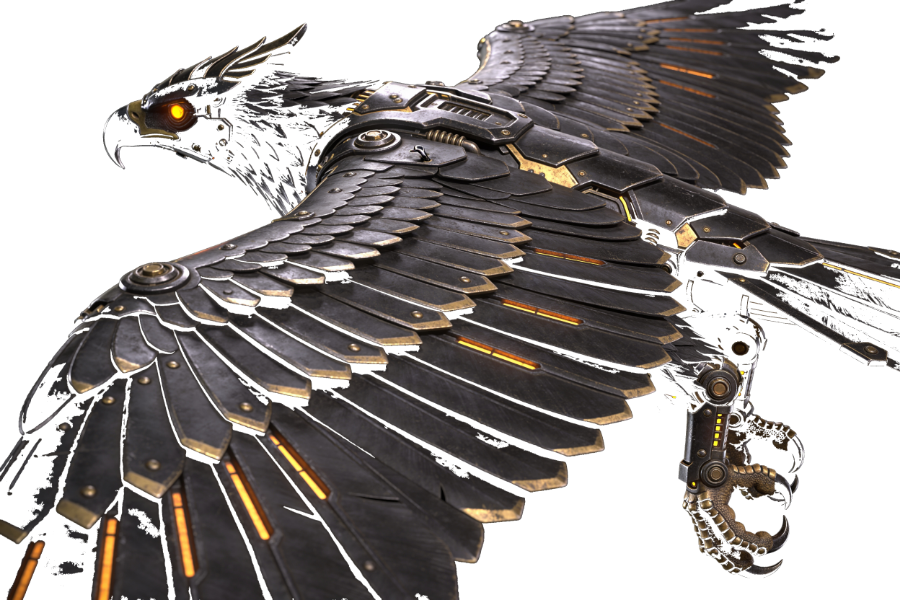
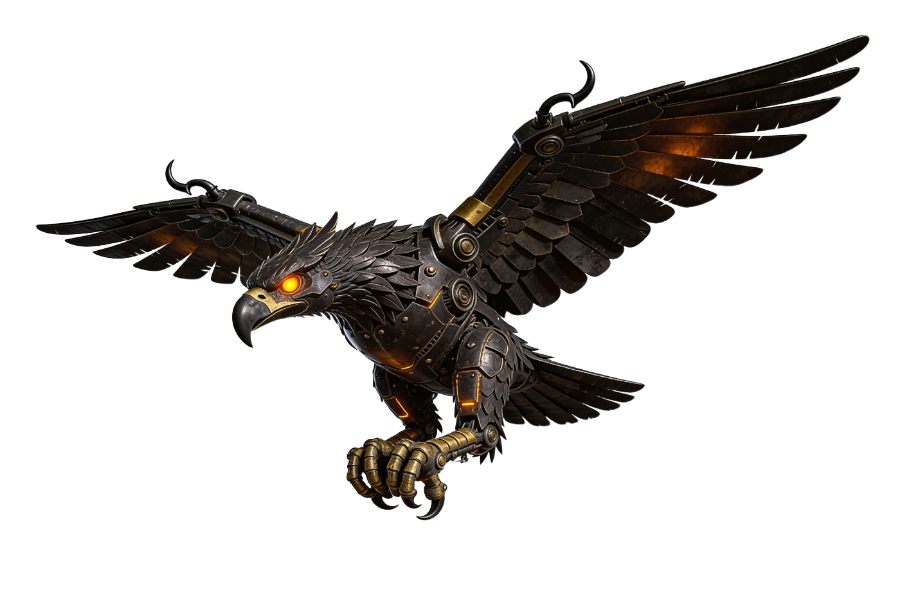
Re-fire four guardian motion plates that were cut off by their own frame
The owner asked to see the bosses in the new artwork. Laying all ten plates
out side by side made a fault visible that firing them one at a time had hid:
five of the ten ended in a STRAIGHT CUT, which is the one silhouette this
game's standing order forbids outright.

tools/mattecheck.cjs is that look turned into a measurement — longest
unbroken run of opaque pixels along each border, plus the longest perfectly
straight alpha step inside the frame. Straight is the thing worth measuring
because straight is what NO RIGHT ANGLES forbids. It found what the eye found
and two more besides.

The diagnosis was not a bad matte. Four subjects simply ran off the edge of
the picture: the model framed them tight, so the cutout ends where the canvas
does. No amount of re-matting fixes a body that was never rendered. Only
prism_stalk was a background remnant.

So the four were re-fired against their own surviving plate, with the framing
contract from §2c/§2f promoted from a clause to the loudest line in the
prompt — the creature SMALL in frame, nothing touching or crossing any edge,
generous margin on all four sides. talonhost took a second pass: asked for a
wind-up it came back facing the camera, which cannot sit beside a left-facing
travel plate, so the profile was stated as its own paragraph.

choir_drift still trips the internal-step half of the check at 64px. Looking
at it on a checkerboard, that is its halo ring reading as a long straight
[…]

diff --git a/index.html b/index.html
@@ -225,7 +225,7 @@
 })();
 </script>
 
-<script>window.BUILD_ID="mswa3dom";window.GAME_LOCK="robo";window.MUS_FILES={"ambient_observing_the_star":"assets/music/ambient_observing_the_star.ogg","epic_combat":"assets/music/epic_combat.ogg","mus_alpha":"assets/music/mus_alpha.m4a","mus_alphatame":"assets/music/mus_alphatame.m4a","mus_archives":"assets/music/mus_archives.m4a","mus_boss":"assets/music/mus_boss.m4a","mus_cache":"assets/music/mus_cache.m4a","mus_conduits":"assets/music/mus_conduits.m4a","mus_ending":"assets/music/mus_ending.m4a","mus_eye":"assets/music/mus_eye.m4a","mus_foundry":"assets/music/mus_foundry.m4a","mus_furnace":"assets/music/mus_furnace.m4a","mus_glaciere":"assets/music/mus_glaciere.m4a","mus_intro":"assets/music/mus_intro.m4a","mus_meadows":"assets/music/mus_meadows.m4a","mus_mother":"assets/music/mus_mother.m4a","mus_nest":"assets/music/mus_nest.m4a","mus_nullfang":"assets/music/mus_nullfang.m4a","mus_prism":"assets/music/mus_prism.m4a","mus_talonhost":"assets/music/mus_talonhost.m4a","mus_title":"assets/music/mus_title.m4a"};window.VID_FILES={"end_atlas":"assets/video/end_atlas.mp4","end_brood":"assets/video/end_brood.mp4","end_close":"assets/video/end_close.mp4","end_folk":"assets/video/end_folk.mp4","end_glitch":"assets/video/end_glitch.mp4","end_mother":"assets/video/end_mother.mp4","end_open":"assets/video/end_open.mp4","end_prism":"assets/video/end_prism.mp4","end_zero":"assets/video/end_zero.mp4","intro1":"assets/video/intro1.mp4","intro2":"assets/video/intro2.mp4","intro3":"assets/video/intro3.mp4","intro4":"assets/video/intro4.mp4","intro5":"assets/video/intro5.mp4","intro6":"assets/video/intro6.mp4","intro7":"assets/video/intro7.mp4","intro8":"assets/video/intro8.mp4","purify_atlas":"assets/video/purify_atlas.mp4","purify_brood":"assets/video/purify_brood.mp4","purify_glitch":"assets/video/purify_glitch.mp4","purify_prism":"assets/video/purify_prism.mp4","purify_zero":"assets/video/purify_zero.mp4","sword_forge":"assets/video/sword_forge.mp4","sword_gift":"assets/video/sword_gift.mp4"};window.VID_ALT={"end_atlas":"assets/video/end_atlas.webm","end_brood":"assets/video/end_brood.webm","end_close":"assets/video/end_close.webm","end_folk":"assets/video/end_folk.webm","end_glitch":"assets/video/end_glitch.webm","end_mother":"assets/video/end_mother.webm","end_open":"assets/video/end_open.webm","end_prism":"assets/video/end_prism.webm","end_zero":"assets/video/end_zero.webm","intro1":"assets/video/intro1.webm","intro2":"assets/video/intro2.webm","intro3":"assets/video/intro3.webm","intro4":"assets/video/intro4.webm","intro5":"assets/video/intro5.webm","intro6":"assets/video/intro6.webm","intro7":"assets/video/intro7.webm","intro8":"assets/video/intro8.webm","purify_atlas":"assets/video/purify_atlas.webm","purify_brood":"assets/video/purify_brood.webm","purify_glitch":"assets/video/purify_glitch.webm","purify_prism":"assets/video/purify_prism.webm","purify_zero":"assets/video/purify_zero.webm","sword_forge":"assets/video/sword_forge.webm","sword_gift":"assets/video/sword_gift.webm"};window.VID_LIGHT={
+<script>window.BUILD_ID="mswbbk8c";window.GAME_LOCK="robo";window.MUS_FILES={"ambient_observing_the_star":"assets/music/ambient_observing_the_star.ogg","epic_combat":"assets/music/epic_combat.ogg","mus_alpha":"assets/music/mus_alpha.m4a","mus_alphatame":"assets/music/mus_alphatame.m4a","mus_archives":"assets/music/mus_archives.m4a","mus_boss":"assets/music/mus_boss.m4a","mus_cache":"assets/music/mus_cache.m4a","mus_conduits":"assets/music/mus_conduits.m4a","mus_ending":"assets/music/mus_ending.m4a","mus_eye":"assets/music/mus_eye.m4a","mus_foundry":"assets/music/mus_foundry.m4a","mus_furnace":"assets/music/mus_furnace.m4a","mus_glaciere":"assets/music/mus_glaciere.m4a","mus_intro":"assets/music/mus_intro.m4a","mus_meadows":"assets/music/mus_meadows.m4a","mus_mother":"assets/music/mus_mother.m4a","mus_nest":"assets/music/mus_nest.m4a","mus_nullfang":"assets/music/mus_nullfang.m4a","mus_prism":"assets/music/mus_prism.m4a","mus_talonhost":"assets/music/mus_talonhost.m4a","mus_title":"assets/music/mus_title.m4a"};window.VID_FILES={"end_atlas":"assets/video/end_atlas.mp4","end_brood":"assets/video/end_brood.mp4","end_close":"assets/video/end_close.mp4","end_folk":"assets/video/end_folk.mp4","end_glitch":"assets/video/end_glitch.mp4","end_mother":"assets/video/end_mother.mp4","end_open":"assets/video/end_open.mp4","end_prism":"assets/video/end_prism.mp4","end_zero":"assets/video/end_zero.mp4","intro1":"assets/video/intro1.mp4","intro2":"assets/video/intro2.mp4","intro3":"assets/video/intro3.mp4","intro4":"assets/video/intro4.mp4","intro5":"assets/video/intro5.mp4","intro6":"assets/video/intro6.mp4","intro7":"assets/video/intro7.mp4","intro8":"assets/video/intro8.mp4","purify_atlas":"assets/video/purify_atlas.mp4","purify_brood":"assets/video/purify_brood.mp4","purify_glitch":"assets/video/purify_glitch.mp4","purify_prism":"assets/video/purify_prism.mp4","purify_zero":"assets/video/purify_zero.mp4","sword_forge":"assets/video/sword_forge.mp4","sword_gift":"assets/video/sword_gift.mp4"};window.VID_ALT={"end_atlas":"assets/video/end_atlas.webm","end_brood":"assets/video/end_brood.webm","end_close":"assets/video/end_close.webm","end_folk":"assets/video/end_folk.webm","end_glitch":"assets/video/end_glitch.webm","end_mother":"assets/video/end_mother.webm","end_open":"assets/video/end_open.webm","end_prism":"assets/video/end_prism.webm","end_zero":"assets/video/end_zero.webm","intro1":"assets/video/intro1.webm","intro2":"assets/video/intro2.webm","intro3":"assets/video/intro3.webm","intro4":"assets/video/intro4.webm","intro5":"assets/video/intro5.webm","intro6":"assets/video/intro6.webm","intro7":"assets/video/intro7.webm","intro8":"assets/video/intro8.webm","purify_atlas":"assets/video/purify_atlas.webm","purify_brood":"assets/video/purify_brood.webm","purify_glitch":"assets/video/purify_glitch.webm","purify_prism":"assets/video/purify_prism.webm","purify_zero":"assets/video/purify_zero.webm","sword_forge":"assets/video/sword_forge.webm","sword_gift":"assets/video/sword_gift.webm"};window.VID_LIGHT={
  "end_atlas": "assets/video/light/end_atlas.mp4",
  "end_brood": "assets/video/light/end_brood.mp4",
  "end_close": "assets/video/light/end_close.mp4",
@@ -328,6 +328,44 @@
  "breakerRest": "assets/lowres/breakerRest.webp",
  "breakerTell": "assets/lowres/breakerTell.webp",
  "breakerVented": "assets/lowres/breakerVented.webp",
+ "slashH": "assets/lowres/slashH.webp",
+ "slashD": "assets/lowres/slashD.webp",
+ "slashU": "assets/lowres/slashU.webp",
+ "slashDn": "assets/lowres/slashDn.webp",
+ "jetpack": "assets/lowres/jetpack.webp",
+ "jetpackFire": "assets/lowres/jetpackFire.webp",
+ "winchHouse": "assets/lowres/winchHouse.webp",
+ "forgeTable": "assets/lowres/forgeTable.webp",
+ "mindNode": "assets/lowres/mindNode.webp",
+ "forgeFront": "assets/lowres/forgeFront.webp",
+ "forgeInterior": "assets/lowres/forgeInterior.webp",
+ "carrelFront": "assets/lowres/carrelFront.webp",
+ "carrelInterior": "assets/lowres/carrelInterior.webp",
+ "hollowFront": "assets/lowres/hollowFront.webp",
+ "hollowInterior": "assets/lowres/hollowInterior.webp",
+ "kilnRest": "assets/lowres/kilnRest.webp",
+ "kilnTell": "assets/lowres/kilnTell.webp",
+ "kilnSpent": "assets/lowres/kilnSpent.webp",
+ "rimeRest": "assets/lowres/rimeRest.webp",
+ "rimeTell": "assets/lowres/rimeTell.webp",
+ "rimeDark": "assets/lowres/rimeDark.webp",
+ "snareRest": "assets/lowres/snareRest.webp",
+ "snareTell": "assets/lowres/snareTell.webp",
+ "snareLimp": "assets/lowres/snareLimp.webp",
+ "nullfangWalk": "assets/lowres/nullfangWalk.webp",
+ "nullfangCoil": "assets/lowres/nullfangCoil.webp",
+ "glaciereTravel": "assets/lowres/glaciereTravel.webp",
+ "glaciereCoil": "assets/lowres/glaciereCoil.webp",
+ "choirDrift": "assets/lowres/choirDrift.webp",
+ "choirClench": "assets/lowres/choirClench.webp",
+ "talonhostGlide": "assets/lowres/talonhostGlide.webp",
+ "talonhostStrike": "assets/lowres/talonhostStrike.webp",
+ "prismStalk": "assets/lowres/prismStalk.webp",
+ "prismCoil": "assets/lowres/prismCoil.webp",
+ "cheetahRunA": "assets/lowres/cheetahRunA.webp",
+ "cheetahRunB": "assets/lowres/cheetahRunB.webp",
+ "bustRatchet": "assets/lowres/bustRatchet.webp",
+ "bustPatch": "assets/lowres/bustPatch.webp",
  "boothFront": "assets/lowres/boothFront.webp",
  "denInterior": "assets/lowres/denInterior.webp",
  "ratchetResting": "assets/lowres/ratchetResting.webp",
@@ -342,17 +380,6 @@
  "cheetahWalkB": "assets/lowres/cheetahWalkB.webp",
  "cheetahWarn": "assets/lowres/cheetahWarn.webp",
  "cheetahRun": "assets/lowres/cheetahRun.webp",
- "cheetahRunA": "assets/lowres/cheetahRunA.webp",
- "cheetahRunB": "assets/lowres/cheetahRunB.webp",
- "talonhostGlide": "assets/lowres/talonhostGlide.webp",
- "talonhostStrike": "assets/lowres/talonhostStrike.webp",
- "prismStalk": "assets/lowres/prismStalk.webp",
- "prismCoil": "assets/lowres/prismCoil.webp",
- "glaciereTravel": "assets/lowres/glaciereTravel.webp",
- "glaciereCoil": "assets/lowres/glaciereCoil.webp",
- "choirDrift": "assets/lowres/choirDrift.webp",
- "choirClench": "assets/lowres/choirClench.webp",
- "forgeTable": "assets/lowres/forgeTable.webp",
  "mindnodeObelisk": "assets/lowres/mindnodeObelisk.webp",
  "lairDen": "assets/lowres/lairDen.webp",
  "lairNest": "assets/lowres/lairNest.webp",

diff --git a/odyssey.html b/odyssey.html
@@ -225,7 +225,7 @@
 })();
 </script>
 
-<script>window.BUILD_ID="mswa3dom";window.GAME_LOCK="hero";window.MUS_FILES={"ambient_observing_the_star":"assets/music/ambient_observing_the_star.ogg","epic_combat":"assets/music/epic_combat.ogg","mus_alpha":"assets/music/mus_alpha.m4a","mus_alphatame":"assets/music/mus_alphatame.m4a","mus_archives":"assets/music/mus_archives.m4a","mus_boss":"assets/music/mus_boss.m4a","mus_cache":"assets/music/mus_cache.m4a","mus_conduits":"assets/music/mus_conduits.m4a","mus_ending":"assets/music/mus_ending.m4a","mus_eye":"assets/music/mus_eye.m4a","mus_foundry":"assets/music/mus_foundry.m4a","mus_furnace":"assets/music/mus_furnace.m4a","mus_glaciere":"assets/music/mus_glaciere.m4a","mus_intro":"assets/music/mus_intro.m4a","mus_meadows":"assets/music/mus_meadows.m4a","mus_mother":"assets/music/mus_mother.m4a","mus_nest":"assets/music/mus_nest.m4a","mus_nullfang":"assets/music/mus_nullfang.m4a","mus_prism":"assets/music/mus_prism.m4a","mus_talonhost":"assets/music/mus_talonhost.m4a","mus_title":"assets/music/mus_title.m4a"};window.VID_FILES={"end_atlas":"assets/video/end_atlas.mp4","end_brood":"assets/video/end_brood.mp4","end_close":"assets/video/end_close.mp4","end_folk":"assets/video/end_folk.mp4","end_glitch":"assets/video/end_glitch.mp4","end_mother":"assets/video/end_mother.mp4","end_open":"assets/video/end_open.mp4","end_prism":"assets/video/end_prism.mp4","end_zero":"assets/video/end_zero.mp4","intro1":"assets/video/intro1.mp4","intro2":"assets/video/intro2.mp4","intro3":"assets/video/intro3.mp4","intro4":"assets/video/intro4.mp4","intro5":"assets/video/intro5.mp4","intro6":"assets/video/intro6.mp4","intro7":"assets/video/intro7.mp4","intro8":"assets/video/intro8.mp4","purify_atlas":"assets/video/purify_atlas.mp4","purify_brood":"assets/video/purify_brood.mp4","purify_glitch":"assets/video/purify_glitch.mp4","purify_prism":"assets/video/purify_prism.mp4","purify_zero":"assets/video/purify_zero.mp4","sword_forge":"assets/video/sword_forge.mp4","sword_gift":"assets/video/sword_gift.mp4"};window.VID_ALT={"end_atlas":"assets/video/end_atlas.webm","end_brood":"assets/video/end_brood.webm","end_close":"assets/video/end_close.webm","end_folk":"assets/video/end_folk.webm","end_glitch":"assets/video/end_glitch.webm","end_mother":"assets/video/end_mother.webm","end_open":"assets/video/end_open.webm","end_prism":"assets/video/end_prism.webm","end_zero":"assets/video/end_zero.webm","intro1":"assets/video/intro1.webm","intro2":"assets/video/intro2.webm","intro3":"assets/video/intro3.webm","intro4":"assets/video/intro4.webm","intro5":"assets/video/intro5.webm","intro6":"assets/video/intro6.webm","intro7":"assets/video/intro7.webm","intro8":"assets/video/intro8.webm","purify_atlas":"assets/video/purify_atlas.webm","purify_brood":"assets/video/purify_brood.webm","purify_glitch":"assets/video/purify_glitch.webm","purify_prism":"assets/video/purify_prism.webm","purify_zero":"assets/video/purify_zero.webm","sword_forge":"assets/video/sword_forge.webm","sword_gift":"assets/video/sword_gift.webm"};window.VID_LIGHT={
+<script>window.BUILD_ID="mswbbk8c";window.GAME_LOCK="hero";window.MUS_FILES={"ambient_observing_the_star":"assets/music/ambient_observing_the_star.ogg","epic_combat":"assets/music/epic_combat.ogg","mus_alpha":"assets/music/mus_alpha.m4a","mus_alphatame":"assets/music/mus_alphatame.m4a","mus_archives":"assets/music/mus_archives.m4a","mus_boss":"assets/music/mus_boss.m4a","mus_cache":"assets/music/mus_cache.m4a","mus_conduits":"assets/music/mus_conduits.m4a","mus_ending":"assets/music/mus_ending.m4a","mus_eye":"assets/music/mus_eye.m4a","mus_foundry":"assets/music/mus_foundry.m4a","mus_furnace":"assets/music/mus_furnace.m4a","mus_glaciere":"assets/music/mus_glaciere.m4a","mus_intro":"assets/music/mus_intro.m4a","mus_meadows":"assets/music/mus_meadows.m4a","mus_mother":"assets/music/mus_mother.m4a","mus_nest":"assets/music/mus_nest.m4a","mus_nullfang":"assets/music/mus_nullfang.m4a","mus_prism":"assets/music/mus_prism.m4a","mus_talonhost":"assets/music/mus_talonhost.m4a","mus_title":"assets/music/mus_title.m4a"};window.VID_FILES={"end_atlas":"assets/video/end_atlas.mp4","end_brood":"assets/video/end_brood.mp4","end_close":"assets/video/end_close.mp4","end_folk":"assets/video/end_folk.mp4","end_glitch":"assets/video/end_glitch.mp4","end_mother":"assets/video/end_mother.mp4","end_open":"assets/video/end_open.mp4","end_prism":"assets/video/end_prism.mp4","end_zero":"assets/video/end_zero.mp4","intro1":"assets/video/intro1.mp4","intro2":"assets/video/intro2.mp4","intro3":"assets/video/intro3.mp4","intro4":"assets/video/intro4.mp4","intro5":"assets/video/intro5.mp4","intro6":"assets/video/intro6.mp4","intro7":"assets/video/intro7.mp4","intro8":"assets/video/intro8.mp4","purify_atlas":"assets/video/purify_atlas.mp4","purify_brood":"assets/video/purify_brood.mp4","purify_glitch":"assets/video/purify_glitch.mp4","purify_prism":"assets/video/purify_prism.mp4","purify_zero":"assets/video/purify_zero.mp4","sword_forge":"assets/video/sword_forge.mp4","sword_gift":"assets/video/sword_gift.mp4"};window.VID_ALT={"end_atlas":"assets/video/end_atlas.webm","end_brood":"assets/video/end_brood.webm","end_close":"assets/video/end_close.webm","end_folk":"assets/video/end_folk.webm","end_glitch":"assets/video/end_glitch.webm","end_mother":"assets/video/end_mother.webm","end_open":"assets/video/end_open.webm","end_prism":"assets/video/end_prism.webm","end_zero":"assets/video/end_zero.webm","intro1":"assets/video/intro1.webm","intro2":"assets/video/intro2.webm","intro3":"assets/video/intro3.webm","intro4":"assets/video/intro4.webm","intro5":"assets/video/intro5.webm","intro6":"assets/video/intro6.webm","intro7":"assets/video/intro7.webm","intro8":"assets/video/intro8.webm","purify_atlas":"assets/video/purify_atlas.webm","purify_brood":"assets/video/purify_brood.webm","purify_glitch":"assets/video/purify_glitch.webm","purify_prism":"assets/video/purify_prism.webm","purify_zero":"assets/video/purify_zero.webm","sword_forge":"assets/video/sword_forge.webm","sword_gift":"assets/video/sword_gift.webm"};window.VID_LIGHT={
  "end_atlas": "assets/video/light/end_atlas.mp4",
  "end_brood": "assets/video/light/end_brood.mp4",
  "end_close": "assets/video/light/end_close.mp4",
@@ -328,6 +328,44 @@
  "breakerRest": "assets/lowres/breakerRest.webp",
  "breakerTell": "assets/lowres/breakerTell.webp",
  "breakerVented": "assets/lowres/breakerVented.webp",
+ "slashH": "assets/lowres/slashH.webp",
+ "slashD": "assets/lowres/slashD.webp",
+ "slashU": "assets/lowres/slashU.webp",
+ "slashDn": "assets/lowres/slashDn.webp",
+ "jetpack": "assets/lowres/jetpack.webp",
+ "jetpackFire": "assets/lowres/jetpackFire.webp",
+ "winchHouse": "assets/lowres/winchHouse.webp",
+ "forgeTable": "assets/lowres/forgeTable.webp",
+ "mindNode": "assets/lowres/mindNode.webp",
+ "forgeFront": "assets/lowres/forgeFront.webp",
+ "forgeInterior": "assets/lowres/forgeInterior.webp",
+ "carrelFront": "assets/lowres/carrelFront.webp",
+ "carrelInterior": "assets/lowres/carrelInterior.webp",
+ "hollowFront": "assets/lowres/hollowFront.webp",
+ "hollowInterior": "assets/lowres/hollowInterior.webp",
+ "kilnRest": "assets/lowres/kilnRest.webp",
+ "kilnTell": "assets/lowres/kilnTell.webp",
+ "kilnSpent": "assets/lowres/kilnSpent.webp",
+ "rimeRest": "assets/lowres/rimeRest.webp",
+ "rimeTell": "assets/lowres/rimeTell.webp",
+ "rimeDark": "assets/lowres/rimeDark.webp",
+ "snareRest": "assets/lowres/snareRest.webp",
+ "snareTell": "assets/lowres/snareTell.webp",
+ "snareLimp": "assets/lowres/snareLimp.webp",
+ "nullfangWalk": "assets/lowres/nullfangWalk.webp",
+ "nullfangCoil": "assets/lowres/nullfangCoil.webp",
+ "glaciereTravel": "assets/lowres/glaciereTravel.webp",
+ "glaciereCoil": "assets/lowres/glaciereCoil.webp",
+ "choirDrift": "assets/lowres/choirDrift.webp",
+ "choirClench": "assets/lowres/choirClench.webp",
+ "talonhostGlide": "assets/lowres/talonhostGlide.webp",
+ "talonhostStrike": "assets/lowres/talonhostStrike.webp",
+ "prismStalk": "assets/lowres/prismStalk.webp",
+ "prismCoil": "assets/lowres/prismCoil.webp",
+ "cheetahRunA": "assets/lowres/cheetahRunA.webp",
+ "cheetahRunB": "assets/lowres/cheetahRunB.webp",
+ "bustRatchet": "assets/lowres/bustRatchet.webp",
+ "bustPatch": "assets/lowres/bustPatch.webp",
  "boothFront": "assets/lowres/boothFront.webp",
  "denInterior": "assets/lowres/denInterior.webp",
  "ratchetResting": "assets/lowres/ratchetResting.webp",
@@ -342,17 +380,6 @@
  "cheetahWalkB": "assets/lowres/cheetahWalkB.webp",
  "cheetahWarn": "assets/lowres/cheetahWarn.webp",
  "cheetahRun": "assets/lowres/cheetahRun.webp",
- "cheetahRunA": "assets/lowres/cheetahRunA.webp",
- "cheetahRunB": "assets/lowres/cheetahRunB.webp",
- "talonhostGlide": "assets/lowres/talonhostGlide.webp",
- "talonhostStrike": "assets/lowres/talonhostStrike.webp",
- "prismStalk": "assets/lowres/prismStalk.webp",
- "prismCoil": "assets/lowres/prismCoil.webp",
- "glaciereTravel": "assets/lowres/glaciereTravel.webp",
- "glaciereCoil": "assets/lowres/glaciereCoil.webp",
- "choirDrift": "assets/lowres/choirDrift.webp",
- "choirClench": "assets/lowres/choirClench.webp",
- "forgeTable": "assets/lowres/forgeTable.webp",
  "mindnodeObelisk": "assets/lowres/mindnodeObelisk.webp",
  "lairDen": "assets/lowres/lairDen.webp",
  "lairNest": "assets/lowres/lairNest.webp",
